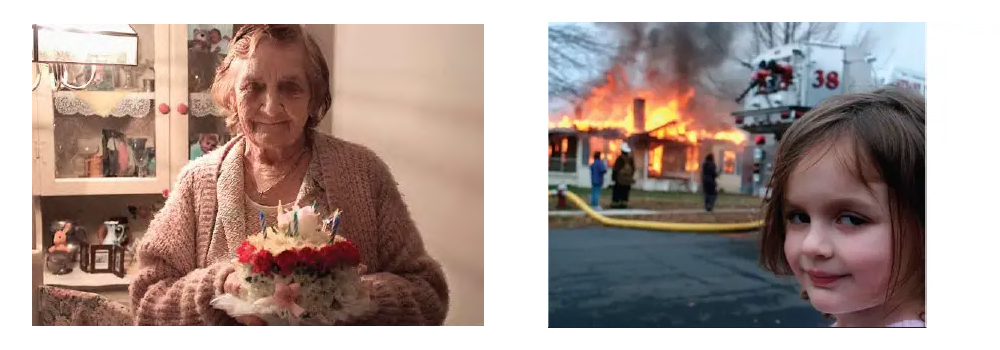
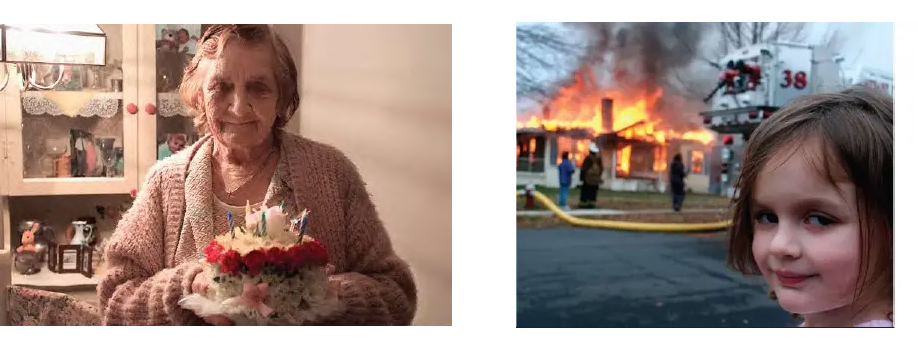
Added CSS to slightly updated HTML

diff --git a/index.html b/index.html
@@ -2,16 +2,30 @@
 <html>
    <head>
       <title>&#9889; &#9889; &#9889;</title>
+      <link rel="stylesheet" type="text/css" href="styles.css">
    </head>
    <body>,
       <header>
-         <h1>&#9889; Brando: A Life in Photos &#9889;</h1>
+         <h1 id="mainHeading">&#9889; Brando: A Life in Photo &#9889;</h1>
+         <nav id="navbar">
+            <a href="#Chapter 1">Chapter 1</a> |
+            <a href="#Chapter 2">Chapter 2</a> |
+            <a href="#Chapter 3">Chapter 3</a> |
+            <a href="#Chapter 4">Chapter 4</a> |
+            <a href="#Chapter 5">Chapter 5</a> |
+            <a href="#Chapter 6">Chapter 6</a> |
+            <a href="#Chapter 7">Chapter 7</a> |
+            <a href="#Chapter 8">Chapter 8</a> |
+            <a href="#Chapter 9">Chapter 9</a>
+            </nav>
+         <hr>
       </header>
       
       <main>
 
          <article>
-            <h2>Give That Boy A Camera</h2>
+            <a name="Chapter 1"></a>
+            <h2>Chapter 1: Born Historian</h2>
             <p>
                I was taking pictures long before it was cool. No seriously, long before
                Facebook and Instagram, like George Harrison taking a selfie at the Taj
@@ -22,14 +36,14 @@
                senior year, the first of which was Club Historian. I was given a very 
                primitive digital point and shoot camera, and it was a blast. 
             </p>
-            <img src="https://www.dropbox.com/s/pe5o9792gug1xg4/10_htmlStory.jpg?raw=1"
-            alt="Baby Brando" width="255" height="233">
             <img src="images/10_htmlStory.jpg"
-            alt="Baby Brando" width="255" height="233">
+            alt="Baby Brando" width="273" height="306">
+            <hr>
          </article>
          
          <article>
-            <h2>Ginsburg Moments</h2>
+            <a name="Chapter 2"></a>
+            <h2>Chapter 2: Ginsburg Moments</h2>
             <p>
                From the start, I was trying to get candid moments amongst my friends. It
                was pretty easy. I had the camera so often that they quickly forgot it was
@@ -40,12 +54,14 @@
                2am. These pictures were taken in the world famous HyHo diner. Brain sandwich
                anyone?
             </p>
-            <img src="https://www.dropbox.com/s/5f1gi1r5j13pb0u/01_htmlStory.jpg?raw=1" 
-            alt="Black and Whites at HyHo." width="1000" height="233">
+            <img src="images/01_htmlStory.jpg" 
+            alt="Black and Whites at HyHo." width="1250" height="306">
+            <hr>
          </article>
          
          <article>
-            <h2>Early Among Legends</h2>
+            <a name="Chapter 3"></a>
+            <h2>Chapter 3: Early Among Legends</h2>
             <p>
                As soon as I started producing photos regularly, I sought to get my
                work published in magazines. The first to do so was JPGMag, a
@@ -60,12 +76,14 @@
                <a href="https://en.wikipedia.org/wiki/Disaster_Girl"> recently
                   sold for nearly 500k.</a>
             </p>
-            <img src="https://www.dropbox.com/s/k2126r59kbu1abt/02_htmlStory.jpg?raw=1" 
-            alt="Granny and Disaster Girl." width="666" height="233">
+            <img src="images/02_htmlStory.jpg" 
+            alt="Granny and Disaster Girl." width="803" height="306">
+            <hr>
          </article>
 
          <article>
-            <h2>Working the Camera</h2>
+            <a name="Chapter 4"></a>
+            <h2>Chapter 4: Working the Camera</h2>
             <p>
                I decide to major in photojournalism, shooting for class and my job at the
                student-run newspaper, hundreds of frames a week. It's so much fun, a new
@@ -74,13 +92,15 @@
                people's privacy? Does this work actually improve the world like they
                say... or is that that just smoke the industry blows up it's own ass?
             </p>
-            <img src="https://www.dropbox.com/s/zhpk5b3mi9u16cg/04_htmlStory.jpg?raw=1" 
-            alt="Photojournalism highlights." width="1000" height="233">
+            <img src="images/04_htmlStory.jpg" 
+            alt="Photojournalism highlights." width="1250" height="306">
+            <hr>
          </article>
 
          <article>
-            <h2>Reflections</h2>
-            <p>
+            <a name="Chapter 5"></a>
+            <h2>Chapter 5: Reflections</h2>
+            <p id="testP" class="funParagraph">
                College is coming to an end. My interest in photography has never been
                higher. My camera has become my fifth limb as I explore subjects beyond
                the newsroom. I dabble in night photography and produce some new work
@@ -88,12 +108,14 @@
                at the Yeiser Art Center, a selection of the Paducah Photo International
                Competition and Exhibition.
             </p>
-            <img src="https://www.dropbox.com/s/gt66vq74qpl2efa/08_htmlStory.jpg?raw=1"
-            alt="Greenhouse Reflections." width="216" height="233">
+            <img src="images/08_htmlStory.jpg"
+            alt="Greenhouse Reflections." width="251" height="306">
+            <hr>
          </article>
 
          <article>
-            <h2>Cairo</h2>
+            <a name="Chapter 6"></a>
+            <h2>Chapter 6: Cairo Project</h2>
             <p>
                My first year out of college sees me hanging around town. The rent is cheap
                and I have lots of free time to create. Almost immediately I knew I wasn't 
@@ -102,12 +124,14 @@
                a style of abstract photography that has become a signature of my style. 
                Work from this series comprised my first ever solo exhibition. 
             </p>
-            <img src="https://www.dropbox.com/s/10nj1opocycix3i/03_htmlStory.jpg?raw=1"
-            alt="Cairo Abstracts." width="748" height="233">
+            <img src="images/03_htmlStory.jpg"
+            alt="Cairo Abstracts." width="901" height="306">
+            <hr>
          </article>
 
          <article>
-            <h2>Other Pursuits</h2>
+            <a name="Chapter 7"></a>
+            <h2>Chapter 7: Other Pursuits</h2>
             <p>
                Almost as soon as I found myself on a roll, life intervened. I decided to
                move to Nashville, TN. I thought my photography would continue in the same vein
@@ -118,12 +142,14 @@
                but it was far less inspired, a lot like Nashville in fact, a bit more 
                corporate and forced.
             </p>
-            <img src="https://www.dropbox.com/s/tba0fz6avr1wvdz/05_htmlStory.jpg?raw=1"
-            alt="Nashville Food Scene." width="741" height="233">
+            <img src="images/05_htmlStory.jpg"
+            alt="Nashville Food Scene." width="899" height="306">
+            <hr>
          </article>
 
          <article>
-            <h2>Selfie-ville</h2>
+            <a name="Chapter 8"></a>
+            <h2>Chapter 8: Selfie-ville</h2>
             <p>
                Like for so many of us in the 2010s, social media was new and exciting. It
                seemed necessary and wonderful, until it was gamified into turning humans
@@ -135,12 +161,14 @@
                My creative drive found an outlet in reinventing myself, a necessary and
                ongoing project in my effort to shed layers of trauma and conditioning.
             </p>
-            <img src="https://www.dropbox.com/s/chdv7bc87g3q187/06_htmlStory.jpg?raw=1"
-            atl="Brando selfies." width="697" height="233"
+            <img src="images/06_htmlStory.jpg"
+            atl="Brando selfies." width="845" height="306">
+            <hr>
          </article>
 
          <article>
-            <h2>Like Riding a Bike</h2>
+            <a name="Chapter 9"></a>
+            <h2>Chapter 9: Like Riding a Bike</h2>
             <p>
                It's been many years removed from the time when I clicked a million frames
                or more, yet I still find myself taking photos, usually with my phone. Covid
@@ -150,8 +178,9 @@
                problem of a decade ago remains: what do I actually want to shoot these days?
                I'm still figuring that out. Mainly I'm shooting for myself, my love of nature.
             </p>
-            <img src="https://www.dropbox.com/s/9s7e5ns0zxifk0z/09_htmlStory.jpg?raw=1"
-            atl="My new work." width="1000" height="458"
+            <img src="images/09_htmlStory.jpg"
+            atl="My new work." width="1250" height="598">
+            <hr>
          </article>
 
       </main>

diff --git a/styles.css b/styles.css
@@ -1,1 +1,39 @@
-/* Write your CSS here! */
+header {
+    padding-bottom: 20px;
+    text-align: center;
+}
+
+body {
+    width: 100%;
+    margin: 8px;
+    display: block;
+    text-align: center;
+}
+
+h1 {
+    margin-top: 10px;
+    font-size: 50px;
+}
+
+h2 {
+    font-family: "Lucida Handwriting", cursive;
+}
+
+p {
+    margin-left: 200px;
+    margin-right: 200px;
+    padding-bottom: 20px;
+    font-size: 17px;
+}
+
+#mainHeading {
+    color: red;
+}
+
+#navbar {
+    font-family: "Lucida Handwriting", cursive;
+}
+
+.funParagraph {
+    color: green;
+}
